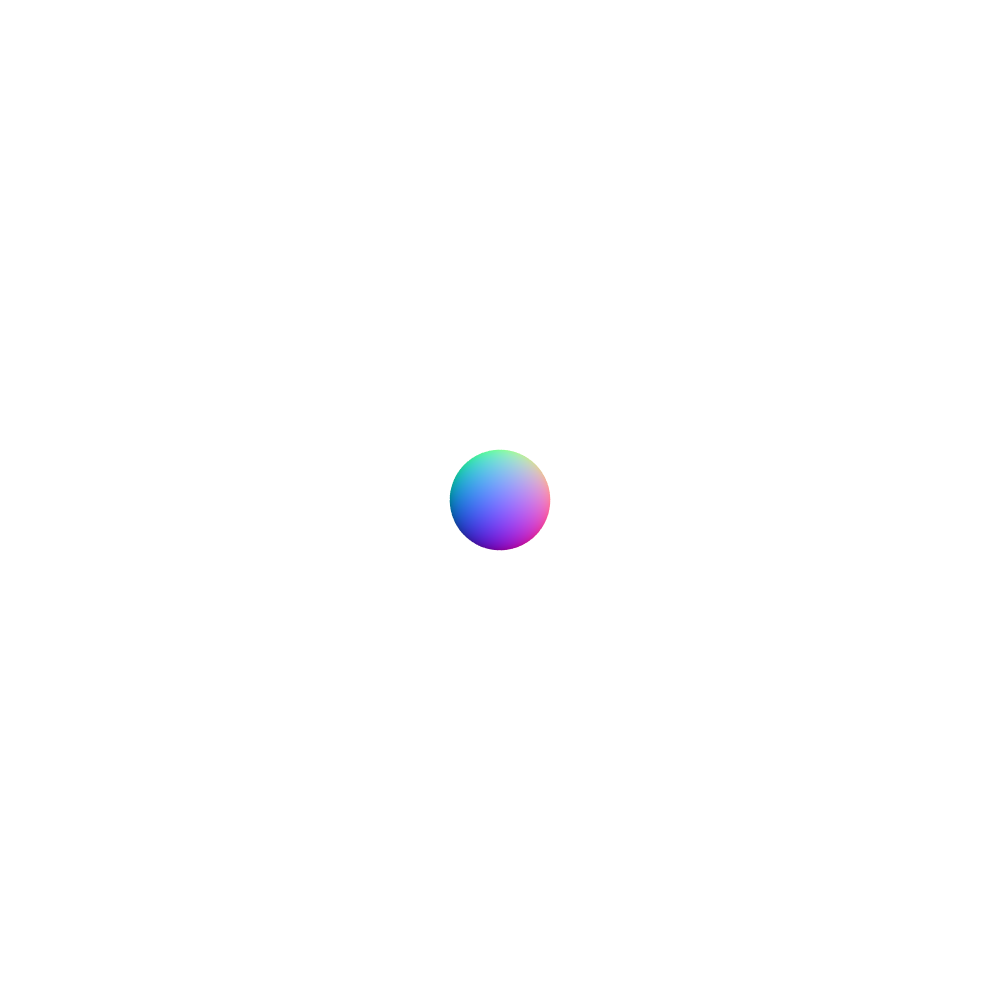
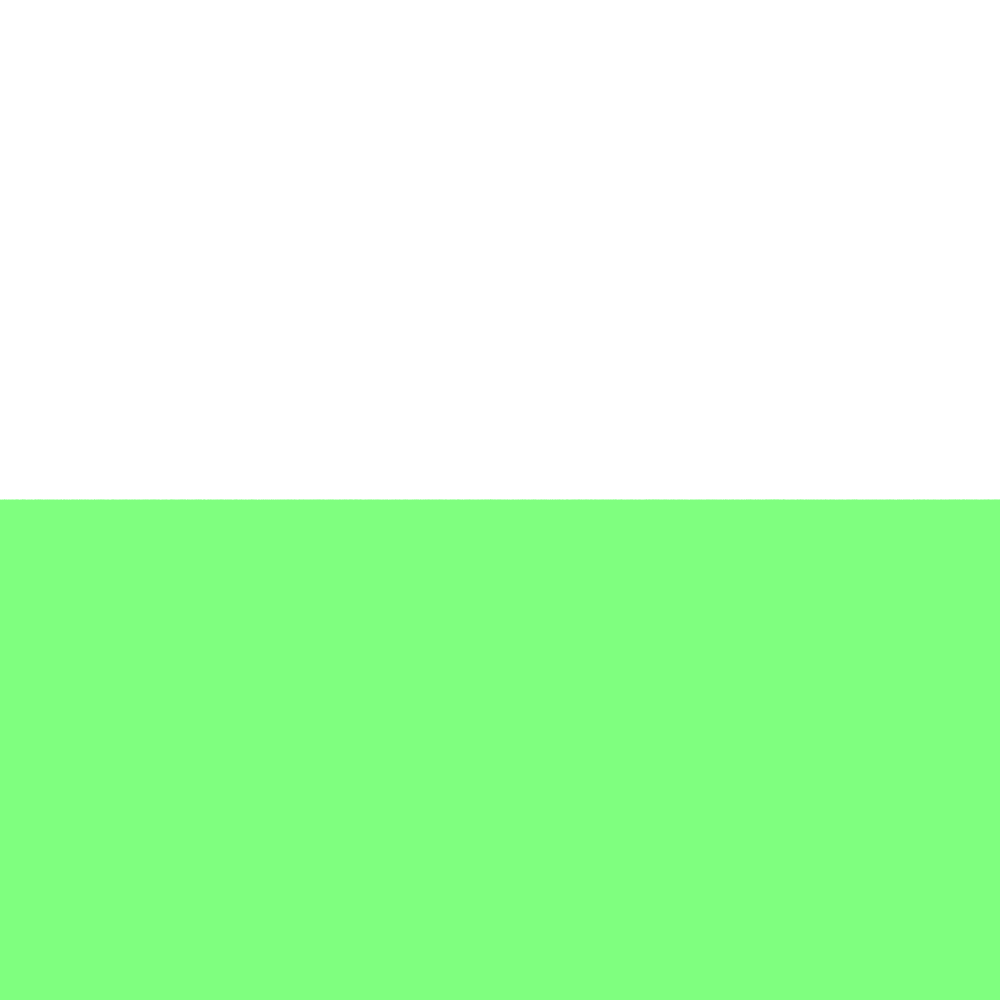
Add plane

diff --git a/main.go b/main.go
@@ -34,7 +34,8 @@ func main() {
     )
 
     c := rt.NewCamera()
-    s := g.Sphere{v.Vector{0.0, 0.0, -5.0}, 0.5}
+//     s := g.Sphere{v.Vector{0.0, 0.0, -5.0}, 0.5}
+    p := g.Plane{v.Vector{0.0, -1.0, 0.0}, v.Vector{0.0, 1.0, 0.0}}
     pixels := make([][]v.Vector, h)
     for y := 0; y < h; y++ {
         pixels[y] = make([]v.Vector, w)
@@ -46,7 +47,7 @@ func main() {
                 yRand := rand.Float64() / float64(h)
                 xRand := rand.Float64() / float64(w)
                 r := c.RayAt(px + xRand, py + yRand)
-                rgb = rgb.Add(getColor(r, s, 0))
+                rgb = rgb.Add(getColor(r, p, 0))
             }
             rgb = rgb.Scale(1.0 / float64(aas))
             pixels[y][x] = rgb
